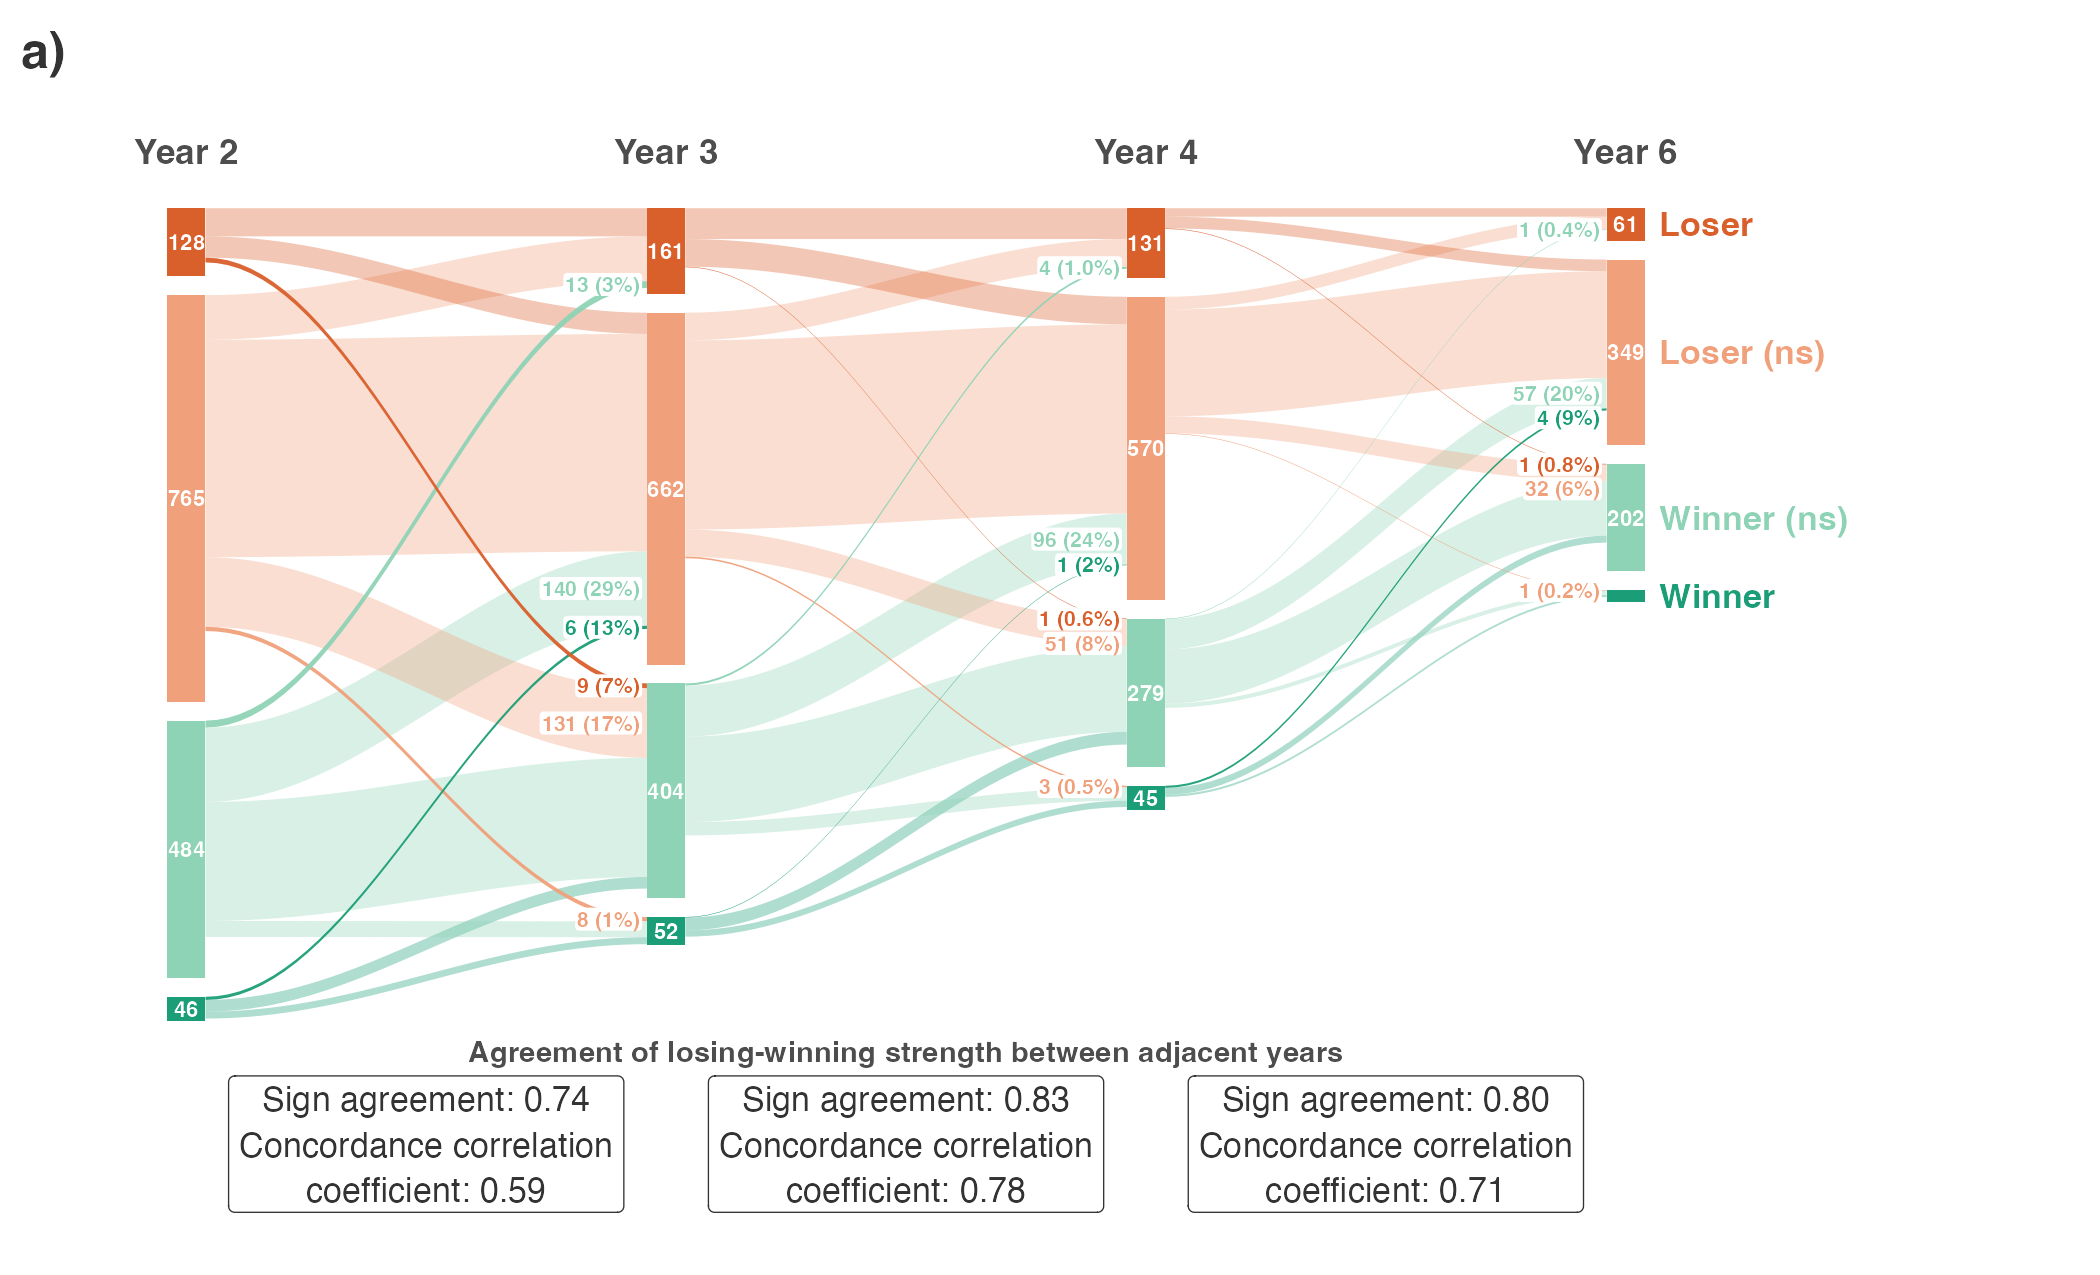
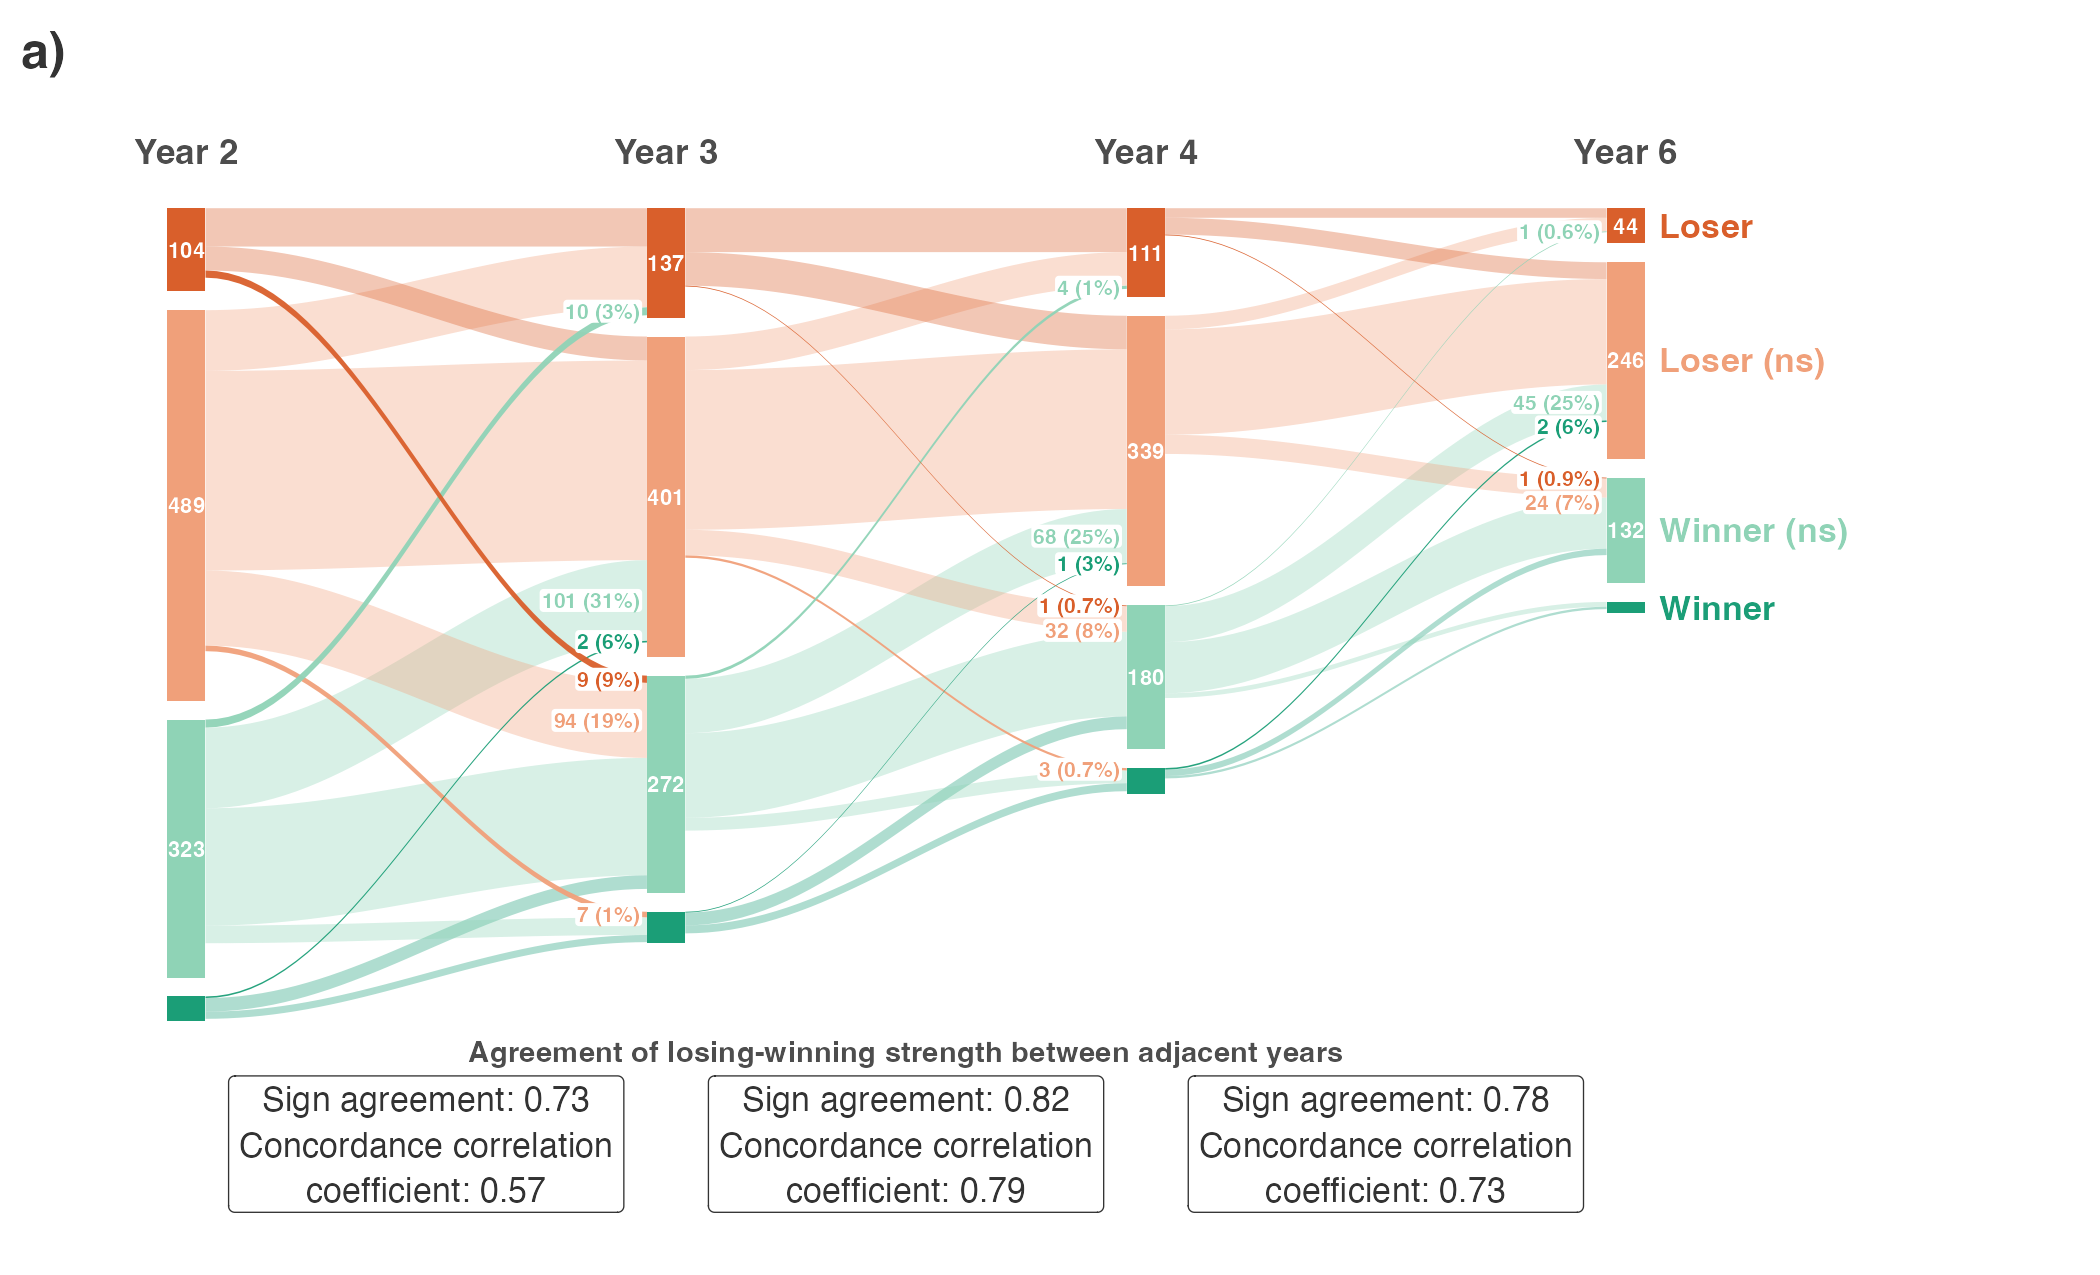
step 03: rerun on the 30 Oct pools (anchors 995 / 887 / 687 / 472; 2->3 CCC 0.57, 3->4 0.79, 4->6 0.73; no significant winner<->loser switches)

diff --git a/reports/03_temporal.md b/reports/03_temporal.md
@@ -6,18 +6,18 @@ Each resident species x experiment was classified at years 2, 3, 4 and 6 after t
 
 | year | combinations | absent_both_groups | classified | Loser | Loser (ns) | Winner (ns) | Winner |
 | --- | --- | --- | --- | --- | --- | --- | --- |
-| 2 | 1655 | 232 | 1423 | 128 | 765 | 484 | 46 |
-| 3 | 1453 | 174 | 1279 | 161 | 662 | 404 | 52 |
-| 4 | 1150 | 125 | 1025 | 131 | 570 | 279 | 45 |
-| 6 | 766 | 132 | 634 | 61 | 349 | 202 | 22 |
+| 2 | 995 | 48 | 947 | 104 | 489 | 323 | 31 |
+| 3 | 887 | 38 | 849 | 137 | 401 | 272 | 39 |
+| 4 | 687 | 25 | 662 | 111 | 339 | 180 | 32 |
+| 6 | 472 | 36 | 436 | 44 | 246 | 132 | 14 |
 
 ## Stability between anchors (`stability.csv`)
 
 | pair | n | sign_agreement | ccc |
 | --- | --- | --- | --- |
-| 2 to 3 | 1182 | 0.740 | 0.591 |
-| 3 to 4 | 896 | 0.826 | 0.778 |
-| 4 to 6 | 486 | 0.802 | 0.710 |
+| 2 to 3 | 822 | 0.729 | 0.573 |
+| 3 to 4 | 596 | 0.817 | 0.787 |
+| 4 to 6 | 336 | 0.783 | 0.734 |
 
 ## Flows (`flows.rds`)
 
@@ -25,28 +25,28 @@ Each resident species x experiment was classified at years 2, 3, 4 and 6 after t
 
 | from | Loser | Loser (ns) | Winner (ns) | Winner |
 | --- | --- | --- | --- | --- |
-| Loser | 53 | 40 | 9 | 0 |
-| Loser (ns) | 84 | 409 | 131 | 8 |
-| Winner (ns) | 13 | 140 | 224 | 30 |
-| Winner | 0 | 6 | 22 | 13 |
+| Loser | 48 | 30 | 9 | 0 |
+| Loser (ns) | 76 | 250 | 94 | 7 |
+| Winner (ns) | 10 | 101 | 147 | 22 |
+| Winner | 0 | 2 | 17 | 9 |
 
 **Year 3 to year 4** (rows: class at the first anchor; columns: class at the second)
 
 | from | Loser | Loser (ns) | Winner (ns) | Winner |
 | --- | --- | --- | --- | --- |
-| Loser | 58 | 52 | 1 | 0 |
-| Loser (ns) | 52 | 356 | 51 | 3 |
-| Winner (ns) | 4 | 96 | 161 | 25 |
-| Winner | 0 | 1 | 24 | 12 |
+| Loser | 55 | 42 | 1 | 0 |
+| Loser (ns) | 42 | 200 | 32 | 3 |
+| Winner (ns) | 4 | 68 | 106 | 16 |
+| Winner | 0 | 1 | 16 | 10 |
 
 **Year 4 to year 6** (rows: class at the first anchor; columns: class at the second)
 
 | from | Loser | Loser (ns) | Winner (ns) | Winner |
 | --- | --- | --- | --- | --- |
-| Loser | 16 | 22 | 1 | 0 |
-| Loser (ns) | 24 | 201 | 32 | 1 |
-| Winner (ns) | 1 | 57 | 102 | 8 |
-| Winner | 0 | 4 | 13 | 4 |
+| Loser | 12 | 21 | 1 | 0 |
+| Loser (ns) | 17 | 132 | 24 | 0 |
+| Winner (ns) | 1 | 45 | 64 | 6 |
+| Winner | 0 | 2 | 8 | 3 |
 
 ## Fig 1 panel a (draft)
 
@@ -63,4 +63,4 @@ Switches between a significant winner and a significant loser, in either directi
 
 ## Deviations from PLAN.md
 
-Combinations absent from both groups in an anchor year ( 663  of  5,024  anchor contrasts) are not classified there, where PLAN.md's rule would have put their zero contrast in Loser (ns) (decided 30 Oct). Anchors are years 2, 3, 4 and 6 rather than 2, 4 and 6 (decided 30 Oct: agreement between consecutive years rises from year 3 on; PLAN.md updated), labelled Year 2, 3, 4, 6 rather than the mock's First 2, 4, 6 years. The draft figure is written to figures/diagnostics/ rather than data/derived/03_temporal/, so that it is committed with the report.
+Combinations absent from both groups in an anchor year ( 147  of  3,041  anchor contrasts) are not classified there, where PLAN.md's rule would have put their zero contrast in Loser (ns) (decided 30 Oct). Anchors are years 2, 3, 4 and 6 rather than 2, 4 and 6 (decided 30 Oct: agreement between consecutive years rises from year 3 on; PLAN.md updated), labelled Year 2, 3, 4, 6 rather than the mock's First 2, 4, 6 years. The draft figure is written to figures/diagnostics/ rather than data/derived/03_temporal/, so that it is committed with the report.
